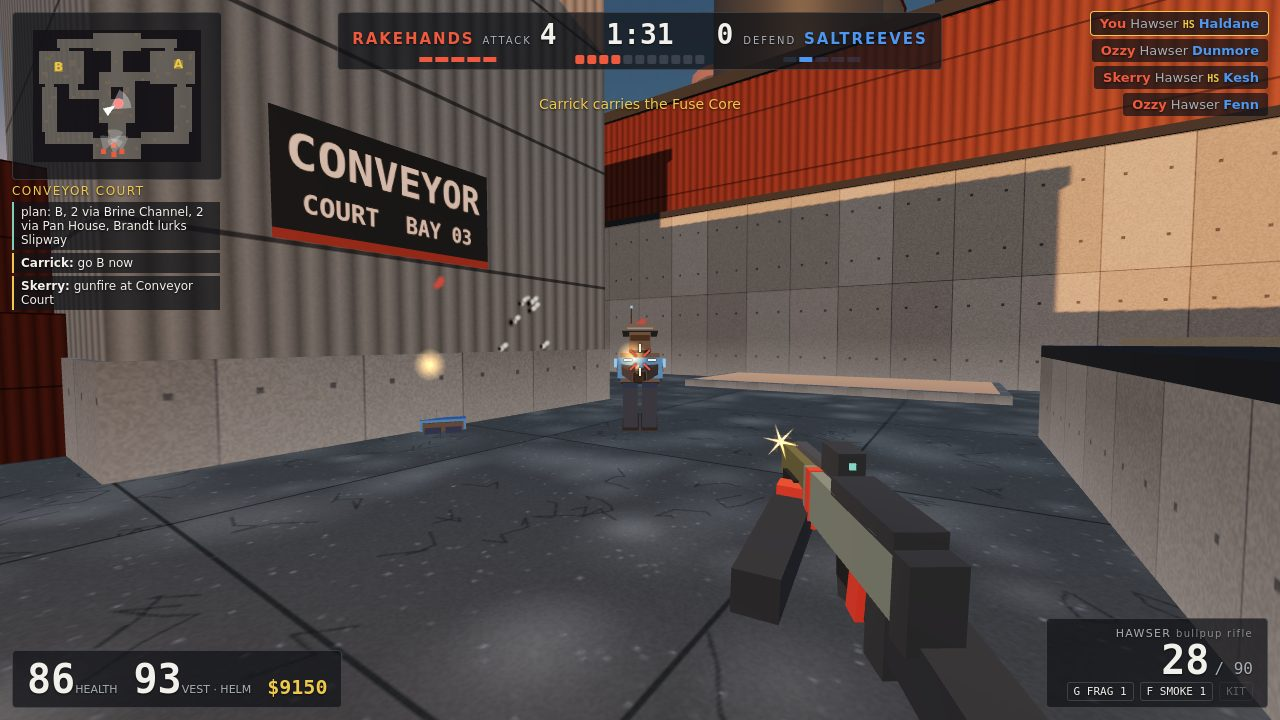
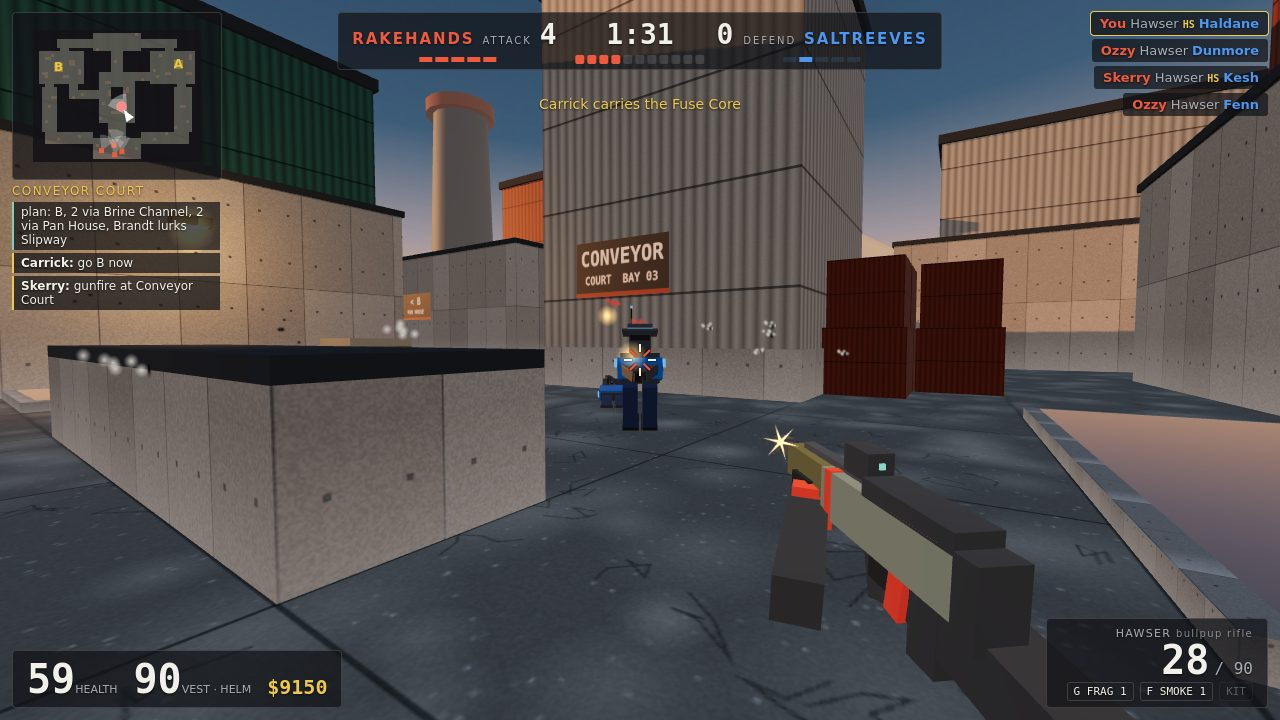
Cover with sky and a landmark: shot 1 looks north-west past the tower; the stack stands in that sky
Scene 1 is now crouched clear of the low wall's end, the trading Saltreeve ~5 m out under the
crosshair, the CONVEYOR COURT board whole, the low wall as foreground cover and the '< B PAN HOUSE'
sign in view. The evaporator stack moves west of the works (coordinates only) so its capped top
rises in the open sky above that lane. Fresh screenshots.

diff --git a/game/src/render/level.js b/game/src/render/level.js
@@ -160,8 +160,8 @@ export function buildLevel(map, tex) {
   };
   for (const [x, z, r, h] of [[-14, 18, 15, 8], [-10, 52, 12, 7], [W + 16, 30, 17, 9], [24, -42, 36, 20], [4, -30, 20, 11], [46, -44, 24, 14], [64, -18, 16, 9]]) add(heap(r, h), salt, x, -0.3, z);
   for (const z of [34, 42]) for (const x of [58, 65]) { add(new THREE.CylinderGeometry(3.2, 3.2, 17, 24), steel, x, 8.5, z); add(new THREE.ConeGeometry(3.3, 1.6, 24), oxide, x, 17.8, z); }
-  add(new THREE.CylinderGeometry(4.4, 5.6, 52, 16), steel, 128, 26, -1); // the evaporator stack, a landmark east of the works
-  add(new THREE.CylinderGeometry(5.6, 5.6, 2, 16), oxide, 128, 52, -1);
+  add(new THREE.CylinderGeometry(4.4, 5.6, 40, 16), steel, -25, 20, -10); // the evaporator stack, a landmark east of the works
+  add(new THREE.CylinderGeometry(5.6, 5.6, 2, 16), oxide, -25, 40, -10);
   flat(900, 900, std({ color: 0x6f6c66, roughness: 1 }), W / 2, -0.05, D / 2); // salt flats into the fog
   return group;
 }

diff --git a/tools/stage.js b/tools/stage.js
@@ -19,7 +19,7 @@ const SCENES = {
   // Conveyor Court: crouched by the low wall, the player drops one Saltreeve with a headshot, then trades
   // with a second one 7 m out against the lit west wall (his muzzle flash, our hit marker).
   1: { side: 0, round: 5, clock: 91, ticks: 36, core: 'mate', hide: ['damage'],
-    cast: [['p', 25, 26, 28, 24, 'hawser'], ['f0', 27, 23, 25, 26, 'hawser'], ['f1', 28, 24, 25, 26, 'cleat']],
+    cast: [['p', 31, 28, 29, 25, 'hawser'], ['f0', 28, 24, 31, 28, 'hawser'], ['f1', 29, 25, 31, 28, 'cleat']],
     fire: [['f1', 0.42, -0.1]], // his first shots go low: the player survives the trade
     radio: [['m1', 'gunfire at Conveyor Court'], ['m0', 'go B now']], // heard from the cut; the coach's call
     script(i, s) {
